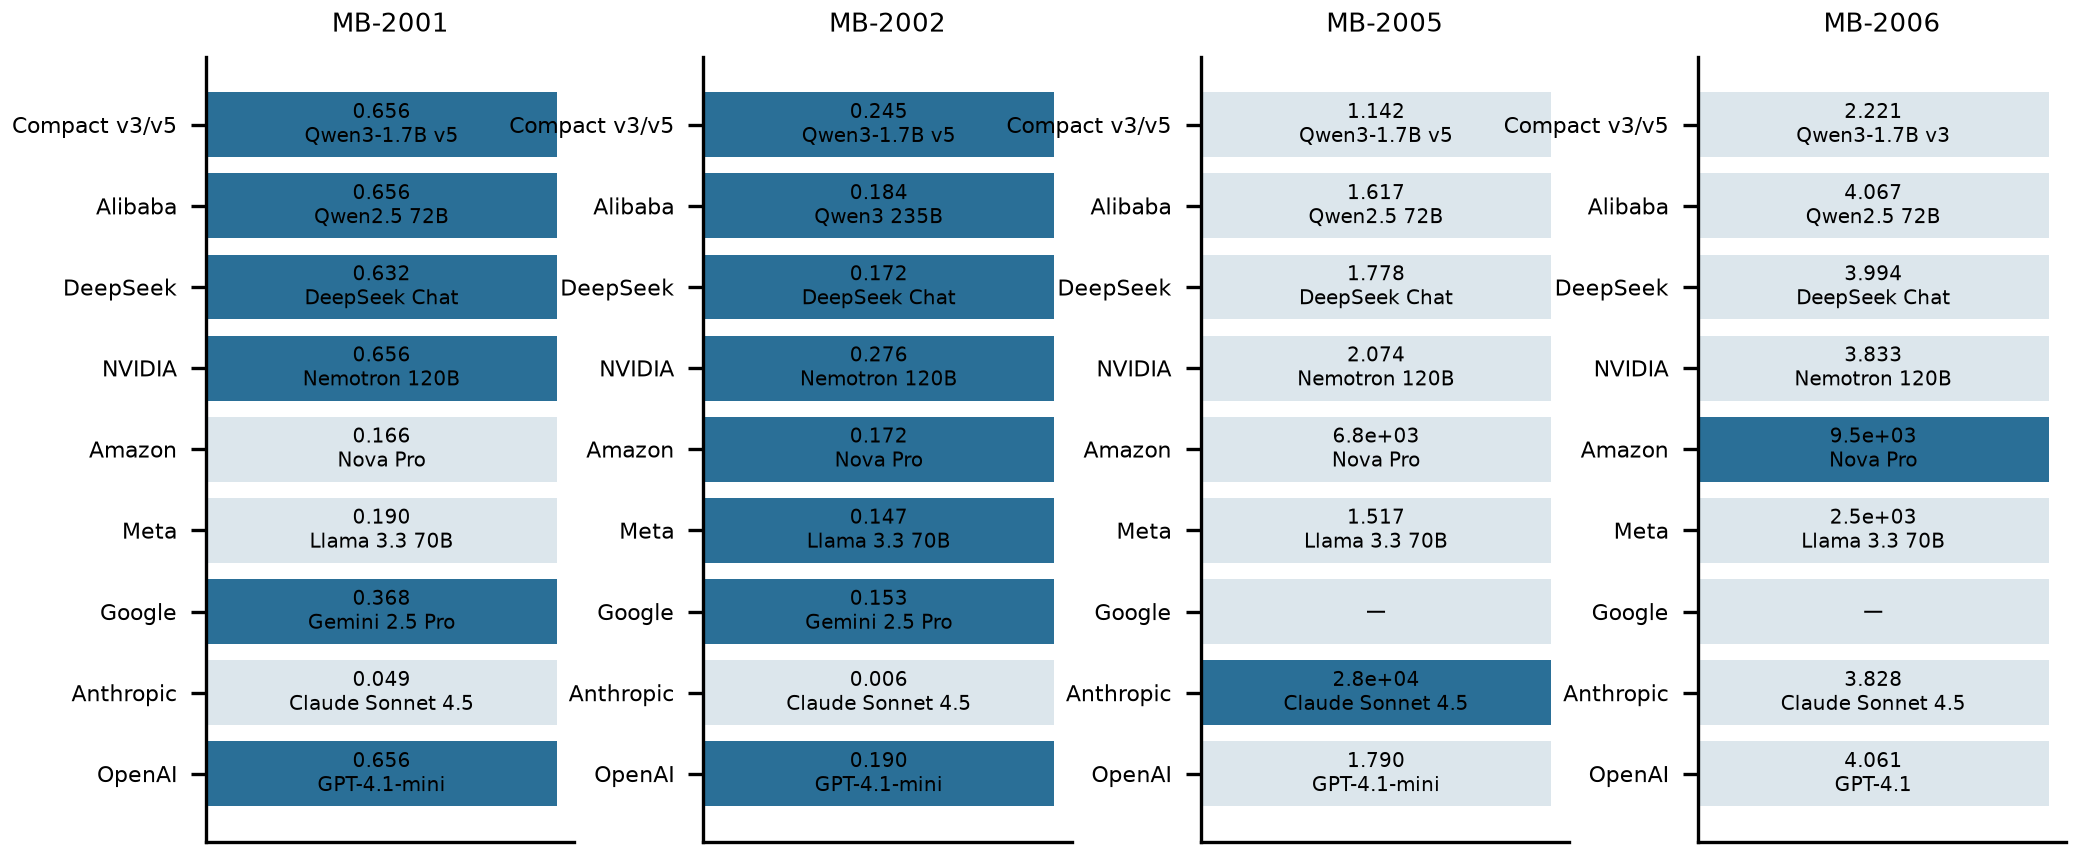
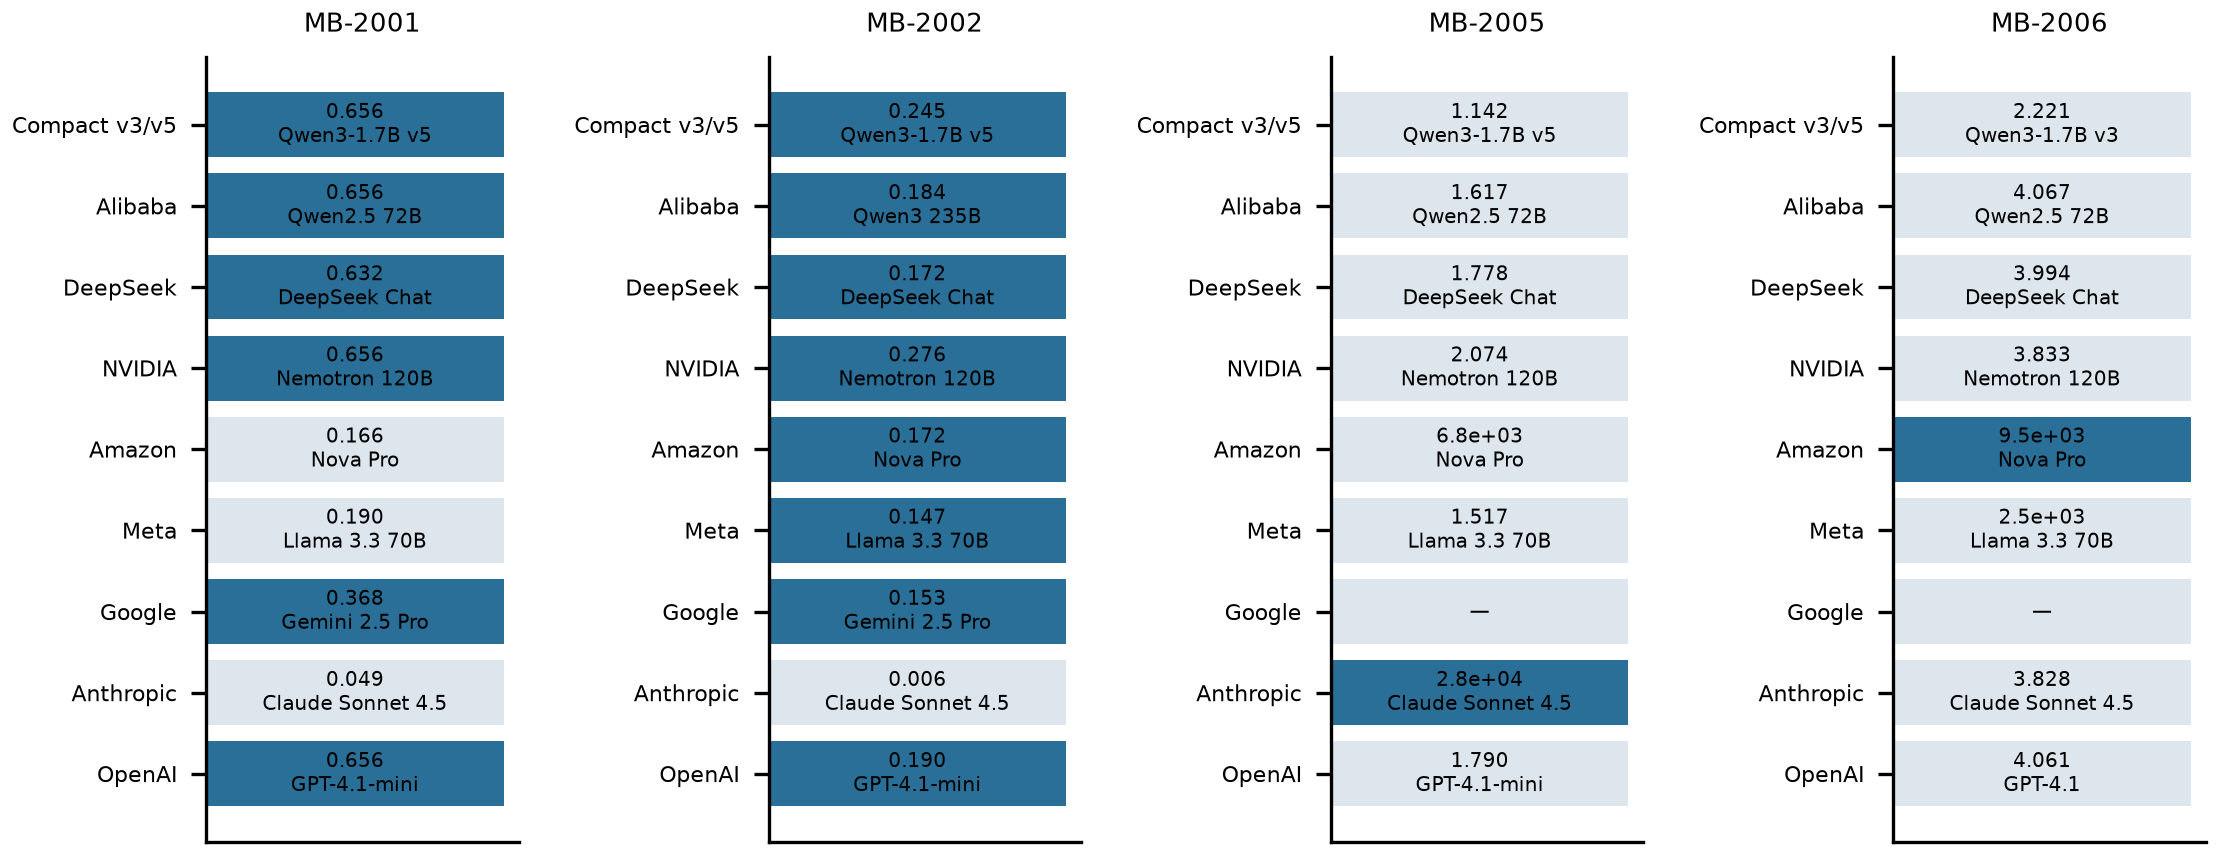
fix(artwork): separate Figure S1 panels to avoid label overlap
Widens Figure S1 panel spacing so developer row labels no longer overlap
the neighbouring panel's bars. Regenerated PNG/PDF; manifest 48/48.

diff --git a/code/regenerate_eligible_figs.py b/code/regenerate_eligible_figs.py
@@ -164,7 +164,7 @@ fig.savefig(FIG/'Figure_5_regression.png');plt.close(fig)
 # ---------- Figure S1: best model per developer, eligible only ----------
 devs={'OpenAI':['GPT-4.1','GPT-4.1-mini','GPT-4o-mini','GPT-5.6 Luna'],'Anthropic':['Claude Sonnet 4.5'],'Google':['Gemini 2.5 Pro'],'Meta':['Llama 3.3 70B'],'Amazon':['Nova Pro'],'NVIDIA':['Nemotron 120B'],'DeepSeek':['DeepSeek Chat'],'Alibaba':['Qwen2.5 72B','Qwen3 235B'],'Compact v3/v5':sorted(COMPACT)}
 dev_models={v:k for k,ms in devs.items() for v in ms}
-fig,axes=plt.subplots(1,4,figsize=(8.0,3.4),gridspec_kw={'wspace':.35})
+fig,axes=plt.subplots(1,4,figsize=(8.6,3.4),gridspec_kw={'wspace':.8})
 for ax,task in zip(axes,['MB-2001','MB-2002','MB-2005','MB-2006']):
     rr=[r for r in summary if r['task']==task and (r['roster']=='eligible' or r['roster'].startswith('pairwise_manifest'))]
     bydev={d:[] for d in devs}
